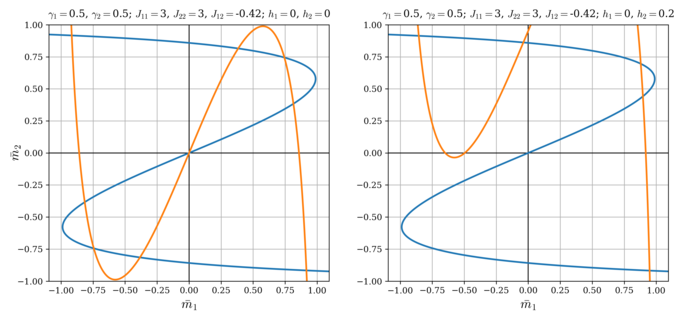
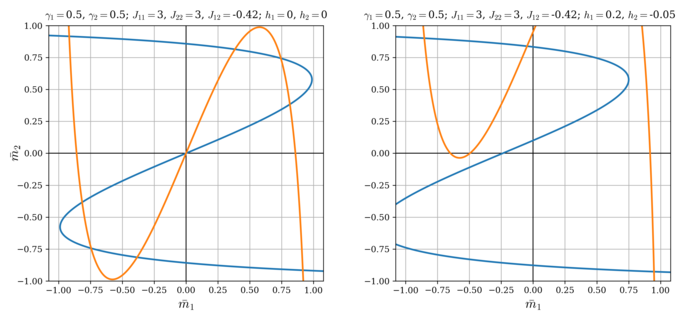
fix: Correct the axes (which were reversed)

Changed region(s): [[0.51, 0.0312, 0.96, 0.9688], [0.0, 0.0312, 0.48, 0.9688]]

diff --git a/scripts/2CW_graphical_analysis.py b/scripts/2CW_graphical_analysis.py
@@ -31,8 +31,8 @@ axs[0].set_xlim([-1, 1])
 axs[0].set_ylim([-1, 1])
 axs[0].axhline(0, linewidth=1, color='black')
 axs[0].axvline(0, linewidth=1, color='black')
-axs[0].plot(m2, M1, label=r'Equation_1: $\frac{\partial F}{\partial m_1} = 0$', linewidth=2)
-axs[0].plot(M2, m1, label=r'Equation_2: $\frac{\partial F}{\partial m_2} = 0$', linewidth=2)
+axs[0].plot(m1, M2, label=r'Equation_1: $\frac{\partial F}{\partial m_1} = 0$', linewidth=2)
+axs[0].plot(M1, m2, label=r'Equation_2: $\frac{\partial F}{\partial m_2} = 0$', linewidth=2)
 
 axs[0].set_title("$\gamma_1=$" + str(gamma1) + ", $\gamma_2=$" + str(gamma2) + "; $J_{11}=$"+str(J11)+", $J_{22}=$"+str(J22)+", $J_{12}=$"+str(J12)+"; $h_1=$"+str(h1)+", $h_2=$"+str(h2), fontsize=12, y=1.01)
 axs[0].grid()
@@ -43,8 +43,8 @@ gamma2 = .5
 J11 = 3
 J22 = 3
 J12 = -.42
-h1 = 0
-h2 = .2
+h1 = 0.2
+h2 = -0.05
 
 M1 = np.arange(-1, 1,.00001)
 M2 = np.arange(-1, 1,.00001)
@@ -58,10 +58,10 @@ axs[1].set_xlim([-1, 1])
 axs[1].set_ylim([-1, 1])
 axs[1].axhline(0, linewidth=1, color='black')
 axs[1].axvline(0, linewidth=1, color='black')
-axs[1].plot(m2, M1, label=r'Equation_1: $\frac{\partial F}{\partial m_1} = 0$', linewidth=2)
-axs[1].plot(M2, m1, label=r'Equation_2: $\frac{\partial F}{\partial m_2} = 0$', linewidth=2)
+axs[1].plot(m1, M2, label=r'Equation_1: $\frac{\partial F}{\partial m_1} = 0$', linewidth=2)
+axs[1].plot(M1, m2, label=r'Equation_2: $\frac{\partial F}{\partial m_2} = 0$', linewidth=2)
 
-axs[1].set_title("$\gamma_1=$" + str(gamma1) + ", $\gamma_2=$" + str(gamma2) + "; $J_{11}=$"+str(J11)+", $J_{22}=$"+str(J22)+", $J_{12}=$"+str(J12)+"; $h_1=$"+str(h1)+", $h_2=$"+str(h2), fontsize=12, y=1.01)
+axs[1].set_title("$\gamma_1=$" + str(gamma1) + ", $\gamma_2=$" + str(gamma2) + "; $J_{11}=$"+str(J11)+", $J_{22}=$"+str(J22)+", $J_{12}=$"+str(J12)+"; $h_1=$"+str(h1)+", $h_2=$"+str(h2), fontsize=12, y=1.01, x=.45)
 axs[1].grid()
 
 plt.tight_layout()
